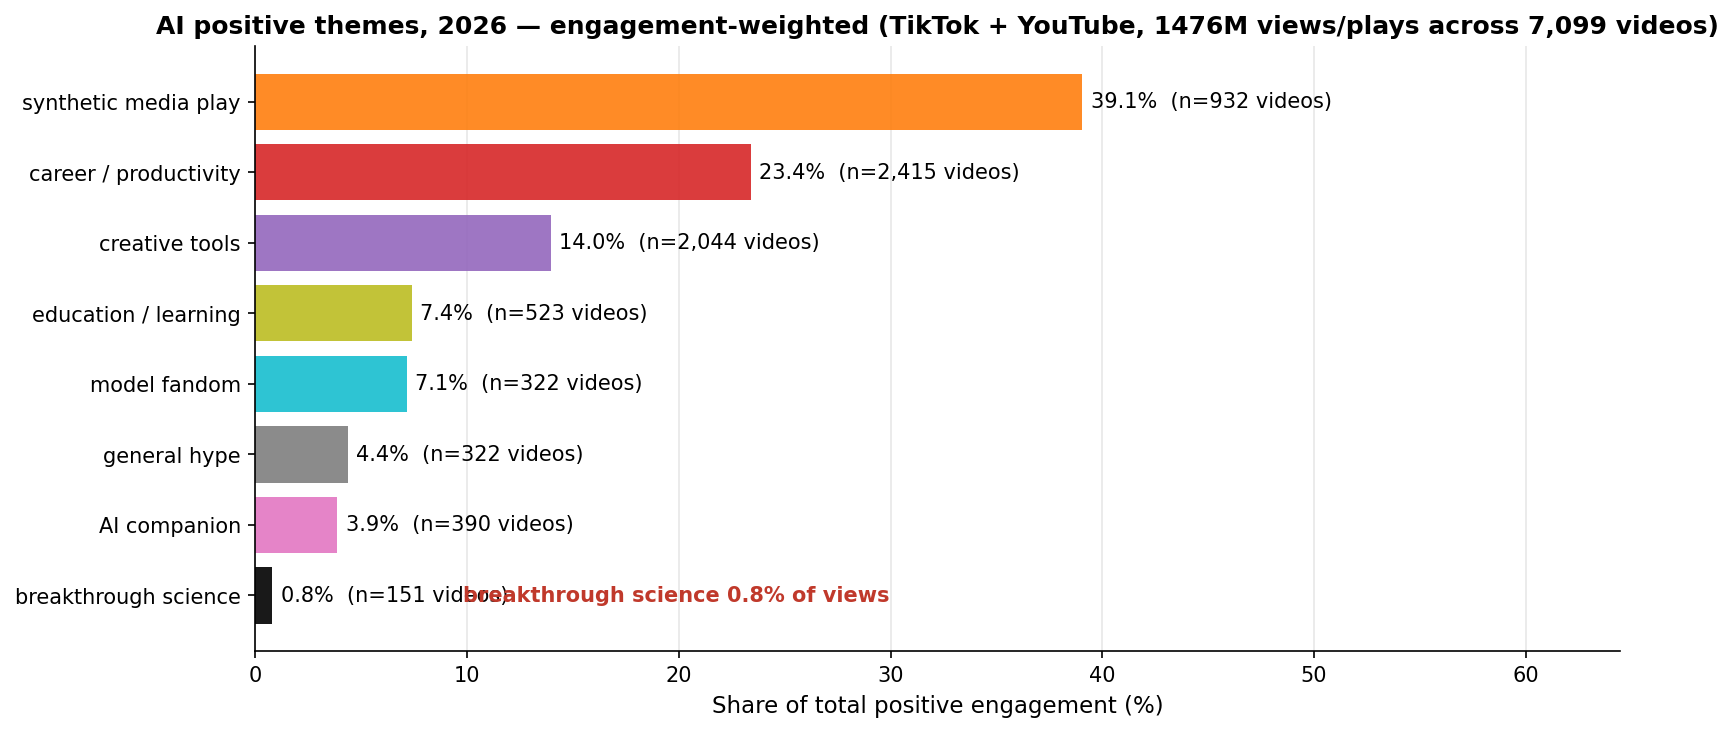
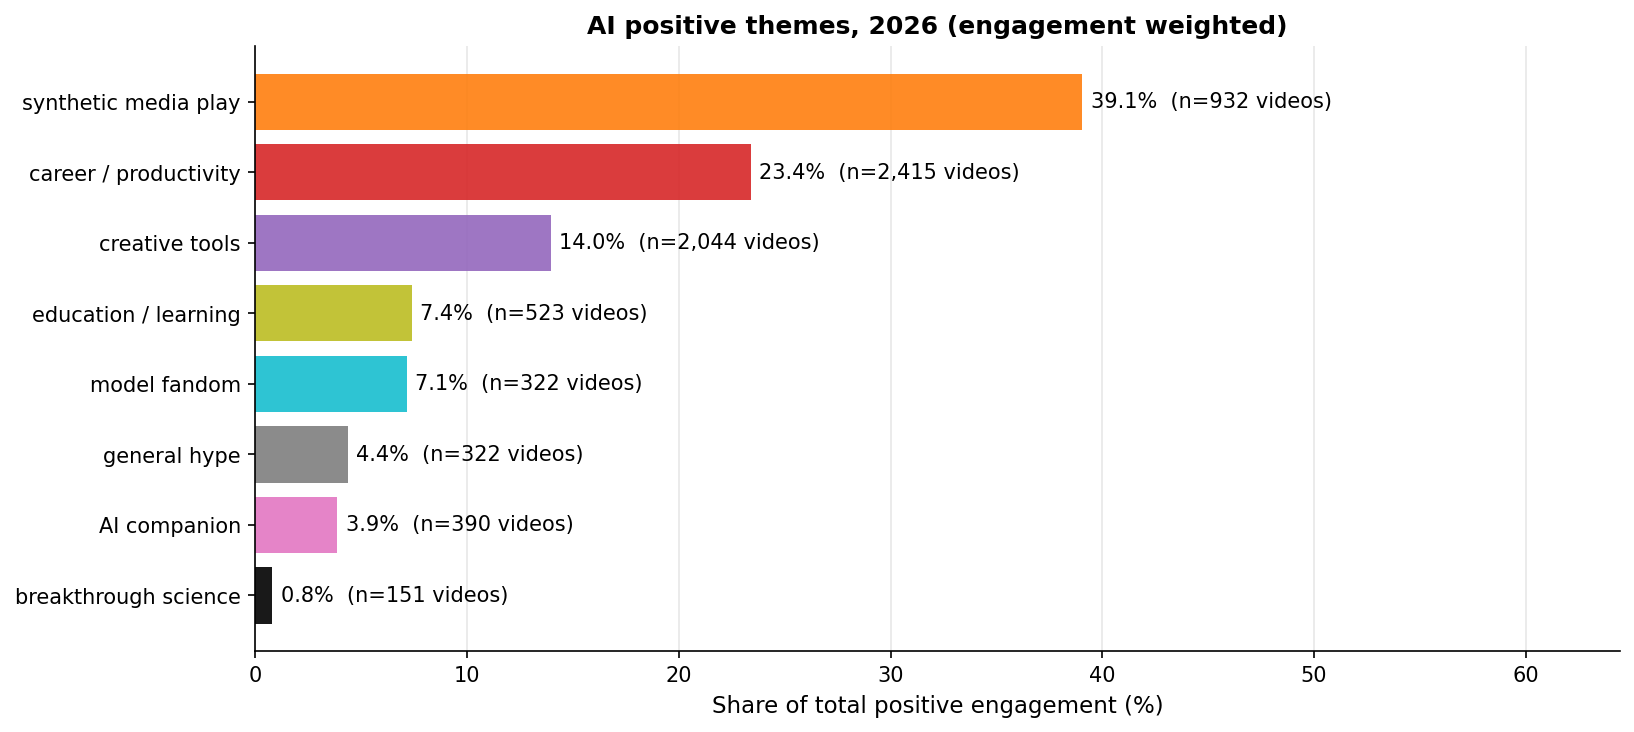
Simplify positive-themes engagement chart title and drop callout
Matches the backlash chart: title is now
"AI positive themes, 2026 (engagement weighted)" with no inline red
breakthrough-science annotation.

diff --git a/analysis/plot_2026_x_share_engagement.py b/analysis/plot_2026_x_share_engagement.py
@@ -187,12 +187,8 @@ def main():
         ax2, p_eng, p_n, p_total,
         list(POSITIVE_THEME_COLORS.keys()),
         POSITIVE_LABELS, POSITIVE_THEME_COLORS,
-        title=(f"AI positive themes, 2026 — engagement-weighted "
-               f"(TikTok + YouTube, {p_total/1e6:.0f}M views/plays across "
-               f"{sum(p_n.values()):,} videos)"),
+        title="AI positive themes, 2026 (engagement weighted)",
         xlabel="Share of total positive engagement (%)",
-        highlight="breakthrough_science",
-        highlight_note=f"breakthrough science {science_share:.1f}% of views",
     )
     plt.tight_layout()
     out2 = OUT / "positive_themes_2026_engagement.png"
